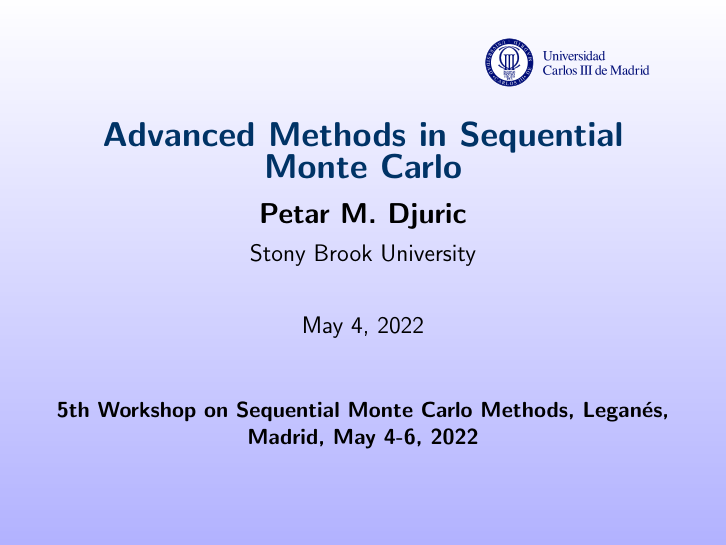
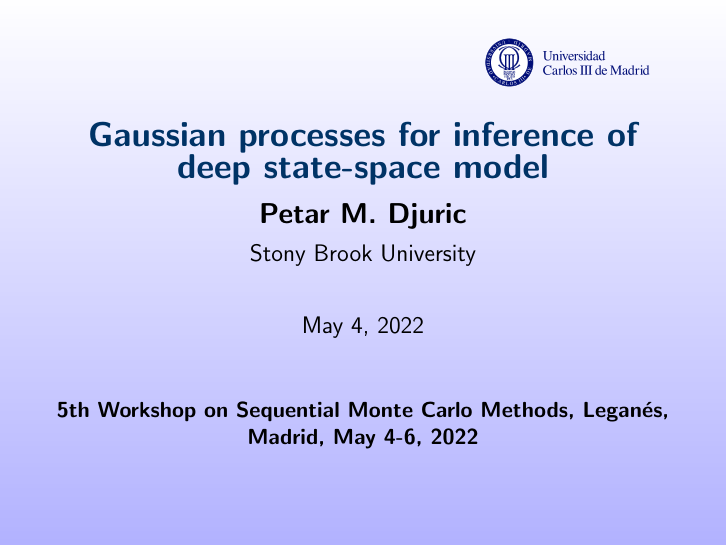
corrected smc2022 1

Changed region(s): [[0.1212, 0.2183, 0.8788, 0.3431]]

diff --git a/events/SMC2022.html b/events/SMC2022.html
@@ -93,7 +93,7 @@ const presentations = [
   },
   {
           authorId: "djuric",
-          title: "Joint Online Parameter Estimation and Sensor Placement for Continuous Time State Space Models",
+          title: "Gaussian processes for inference of deep state-space model",
           author: "Petar M. Djuric",
           affiliation: "Stony Brook University",
           date: "May 4, 2022",
@@ -101,7 +101,7 @@ const presentations = [
       },
       {
           authorId: "kantas",
-          title: "Monotonic Alpha-divergence Minimisation for Variational Inference",
+          title: "Joint online parameter estimation and sensor placement for continuous time state space models",
           author: "Nikolas Kantas",
           affiliation: "Imperial College London",
           date: "May 4, 2022",
@@ -109,7 +109,7 @@ const presentations = [
       },
       {
           authorId: "douc",
-          title: "Waste-free Sequential Monte Carlo",
+          title: "Monotonic Alpha-divergence Minimisation for Variational Inference",
           author: "Randal Douc",
           affiliation: "TELECOM SudParis",
           date: "May 4, 2022",
